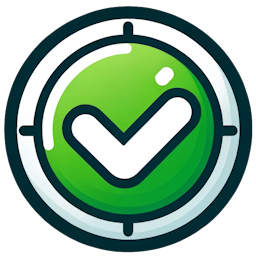
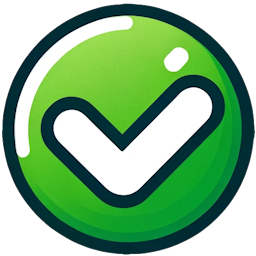
cleanup and new images

diff --git a/src/main.ts b/src/main.ts
@@ -24,7 +24,6 @@ function getPath(filePath: string) {
 let notificationIcon = nativeImage.createFromPath(getPath('../images/Checker_256.png'));
 let disabledNotificationIcon = nativeImage.createFromPath(getPath('../images/Checker_256_disabled.png'));
 let iconPath = notificationIcon;
-// let iconPath = nativeImage.createFromPath(getPath('../images/toast_64.ico'));
 
 const notificationObject: Pick<NotificationConstructorOptions, 'title' | 'icon'> = {
   title,
@@ -122,11 +121,14 @@ function hasChecks(): boolean {
   return Boolean(lastTimeout);
 }
 
-function stopProcessChecks() {
+function stopProcessChecks(cleanup: boolean = false) {
   if (lastTimeout) {
-    console.log('stopping process checks');
     clearTimeout(lastTimeout);
-    lastTimeout = undefined;
+    if (!cleanup) {
+      lastTimeout = undefined;
+    } else {
+      console.log('stopped process checks');
+    }
     return true;
   }
   return false;
@@ -134,7 +136,7 @@ function stopProcessChecks() {
 
 async function startProcessChecks() {
   try {
-    stopProcessChecks();
+    stopProcessChecks(true);
     console.log('process checks started');
     const list = await findProcess('name', processName);
     if (list.length === 0) {
